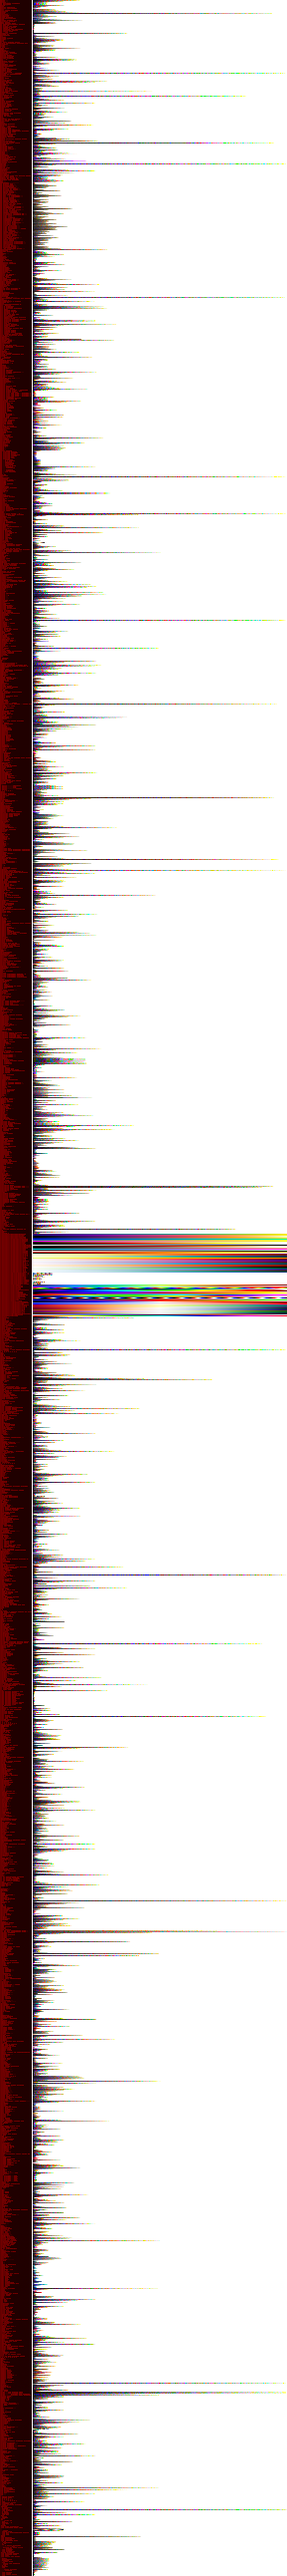
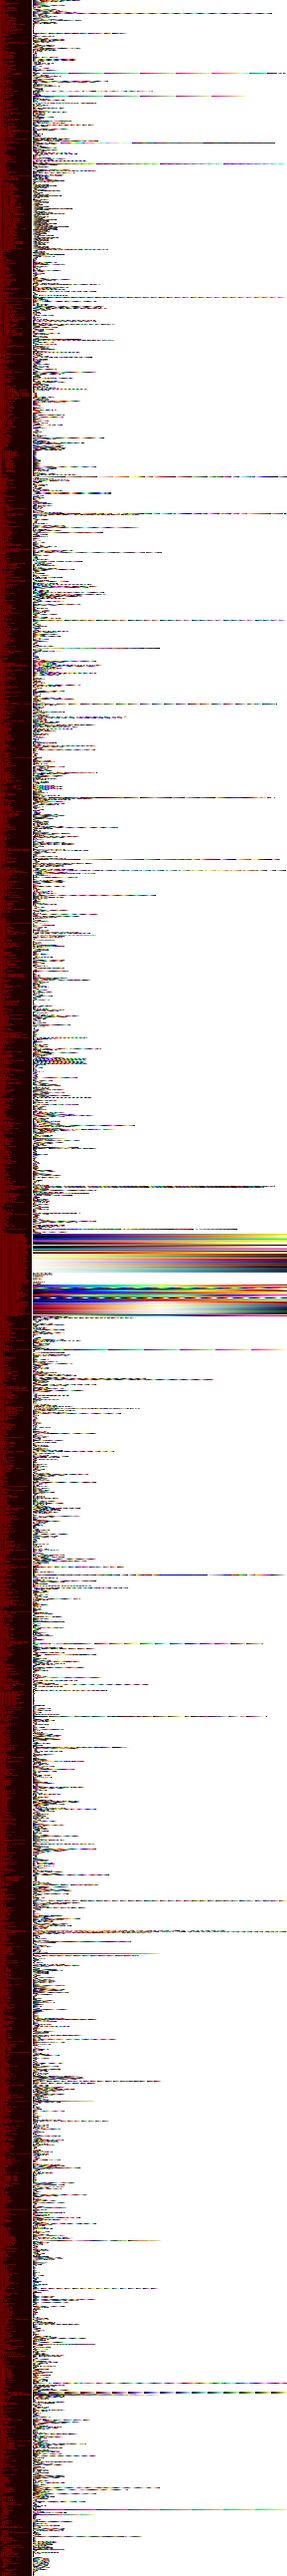
restore old palette ordering

Changed region(s): [[0.0934, 0.0, 0.2803, 1.0]]

diff --git a/src/data/paletteLoader.h b/src/data/paletteLoader.h
@@ -19,7 +19,7 @@ inline std::vector< paletteEntry > paletteList; // unordered_map< string, palett
 // 		std::ifstream in( file.path() );
 // 		uint32_t value;
 // 		// read in the value, in hex
-// 		while ( in >> std::hex >> value ) {
+// 		while ( in >> std::hex >> value ) { // this is kinda s(h)exy
 // 			int r, g, b; // extract the color channel values from the bits
 // 			r = ( value & 0xFF0000 ) >> 16;
 // 			g = ( value & 0xFF00 ) >> 8;
@@ -31,33 +31,36 @@ inline std::vector< paletteEntry > paletteList; // unordered_map< string, palett
 // 	}
 // }
 
-// static void reexportPalettes () {
-// 	// sort by label
-// 	std::sort( paletteList.begin(), paletteList.end(), []( palette a, palette b ) { return a.label > b.label; } );
-// 	Image out( 33 + 256 /* label + max palette entry count */, paletteList.size() );
-// 	for ( unsigned int y = 0; y < paletteList.size(); y++ ) {
-// 		// write the string for the identifier
-// 		paletteList[ y ].label.resize( 32, ' ' );
-// 		for ( int l = 0; l < 32; l++ ) {
-// 			out.SetAtXY( l, y, { uint8_t( paletteList[ y ].label[ l ] ), 0, 0, 255 } );
-// 		}
-// 		// remove duplicates - I didn't want to do this for the matlab palettes
-// 		for ( unsigned int entry = 0; entry < paletteList[ y ].colors.size() - 1; entry++ ) {
-// 			for ( unsigned int second = entry + 1; second < paletteList[ y ].colors.size(); second++ ) {
-// 				if ( paletteList[ y ].colors[ entry ] == paletteList[ y ].colors[ second ] ) {
-// 					paletteList[ y ].colors.erase( paletteList[ y ].colors.begin() + second );
-// 					second--;
-// 				}
-// 			}
-// 		}
-// 		// write all the palette entry values
-// 		for ( unsigned int entry = 0; entry < paletteList[ y ].colors.size(); entry++ ) {
-// 			rgba value { uint8_t( paletteList[ y ].colors[ entry ].x ), uint8_t( paletteList[ y ].colors[ entry ].y ), uint8_t( paletteList[ y ].colors[ entry ].z ), 255 };
-// 			out.SetAtXY( 33 + entry, y, value );
-// 		}
-// 	}
-// 	out.Save( "test.png" );
-// }
+static void reexportPalettes () {
+	// sort by label
+	std::sort( paletteList.begin(), paletteList.end(), []( paletteEntry a, paletteEntry b ) { return a.label > b.label; } );
+	Image out( 33 + 256 /* label + max palette entry count */, paletteList.size() );
+	for ( unsigned int y = 0; y < paletteList.size(); y++ ) {
+		// write the string for the identifier
+		paletteList[ y ].label.resize( 32, ' ' );
+		for ( int l = 0; l < 32; l++ ) {
+			out.SetAtXY( l, y, { uint8_t( paletteList[ y ].label[ l ] ), 0, 0, 255 } );
+		}
+
+		cout << y << " : " << paletteList[ y ].label << newline;
+
+		// // remove duplicates - I didn't want to do this for the matlab palettes, or really at all
+		// for ( unsigned int entry = 0; entry < paletteList[ y ].colors.size() - 1; entry++ ) {
+		// 	for ( unsigned int second = entry + 1; second < paletteList[ y ].colors.size(); second++ ) {
+		// 		if ( paletteList[ y ].colors[ entry ] == paletteList[ y ].colors[ second ] ) {
+		// 			paletteList[ y ].colors.erase( paletteList[ y ].colors.begin() + second );
+		// 			second--;
+		// 		}
+		// 	}
+		// }
+		// write all the palette entry values
+		for ( unsigned int entry = 0; entry < paletteList[ y ].colors.size(); entry++ ) {
+			rgba value { uint8_t( paletteList[ y ].colors[ entry ].x ), uint8_t( paletteList[ y ].colors[ entry ].y ), uint8_t( paletteList[ y ].colors[ entry ].z ), 255 };
+			out.SetAtXY( 33 + entry, y, value );
+		}
+	}
+	out.Save( "test.png" );
+}
 
 static void LoadPalettes () {
 	Image paletteRecord( "./src/data/palettes.png" );
@@ -79,8 +82,41 @@ static void LoadPalettes () {
 		paletteList.push_back( p );
 	}
 
+	json j;
+	std::ifstream in( "../../paletteData.json" );
+	in >> j;
+
+	Image oldData( "../../paletteList.png" );
+
+	int index = 0;
+
+	for ( auto& el : j.items() ) {
+
+		std::vector< glm::ivec3 > values;
+		for ( int x = 0;; x++ ) {
+			rgba read = oldData.GetAtXY( x, index );
+			if ( read.a == 0 ) { break; }
+			values.push_back( glm::ivec3( read.r, read.g, read.b ) );
+		}
+
+		index++;
+
+		for ( unsigned int i = 0; i < paletteList.size(); i++ ) {
+			if ( paletteList[ i ].label == el.key() ) {
+
+				// clear color list
+				paletteList[ i ].colors.clear();
+
+				// copy from the values array
+				for ( unsigned int k = 0; k < values.size(); k++ ) {
+					paletteList[ i ].colors.push_back( values[ k ] );
+				}
+			}
+		}
+	}
+
 	// LoadAllHexfiles();
-	// reexportPalettes();
+	reexportPalettes();
 }
 
 
